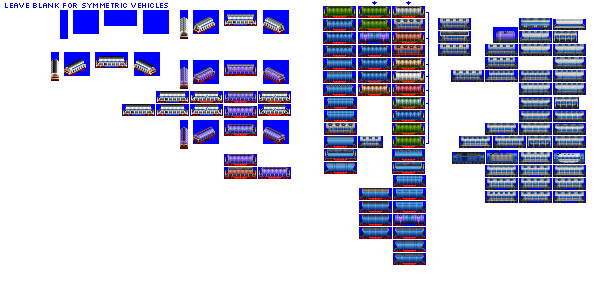
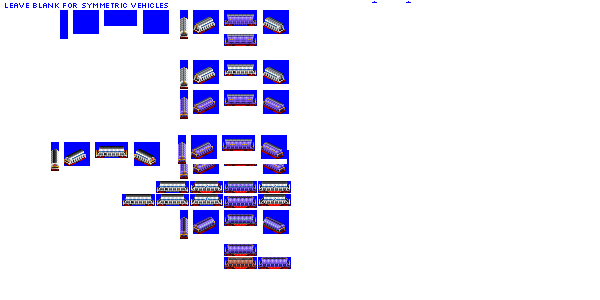
Change: WIP on 3rd type of swing roof hopper (unsatisfactory sprites)

diff --git a/src/vehicles/pony/swing_roof_hopper_cars_type_3_pony.py b/src/vehicles/pony/swing_roof_hopper_cars_type_3_pony.py
@@ -7,11 +7,11 @@ def main(**kwargs):
     # --------------- standard gauge ---------------------------------------------------------------
 
     model_def = ModelDef(
-        schema_name="CoveredHopperCarSwingRoofType2",
-        base_numeric_id=16900,
+        schema_name="CoveredHopperCarSwingRoofType3",
+        base_numeric_id=26230,
         gen=5,
         subtype="B",
-        sprites_complete=False,
+        sprites_complete=True,
     )
 
     model_def.add_unit_def(
@@ -21,11 +21,11 @@ def main(**kwargs):
     result.append(model_def)
 
     model_def = ModelDef(
-        schema_name="CoveredHopperCarSwingRoofType2",
-        base_numeric_id=16940,
+        schema_name="CoveredHopperCarSwingRoofType3",
+        base_numeric_id=26240,
         gen=5,
         subtype="C",
-        sprites_complete=False,
+        sprites_complete=True,
     )
 
     model_def.add_unit_def(

diff --git a/src/train/schemas.py b/src/train/schemas.py
@@ -4241,6 +4241,17 @@ class CoveredHopperCarSwingRoofType2(CoveredHopperCarSwingRoofBase):
 
     def __init__(self, **kwargs):
         super().__init__(**kwargs)
+
+
+class CoveredHopperCarSwingRoofType3(CoveredHopperCarSwingRoofBase):
+    """
+    Covered hopper with a swing roof hatch, same refits as standard covered hopper, just a visual variant.
+    """
+
+    model_id_root = "swing_roof_hopper_car_type_3"
+
+    def __init__(self, **kwargs):
+        super().__init__(**kwargs)
         # Graphics configuration
         # there's some specific magic pixel handling on these that means they get a unique recolour map
         weathered_states = {

diff --git a/src/rosters/pony.py b/src/rosters/pony.py
@@ -403,6 +403,7 @@ wagon_module_names_with_roster_ids = {
     "suburban_passenger_cars": "pony",
     "swing_roof_hopper_cars_type_1": "pony",
     "swing_roof_hopper_cars_type_2": "pony",
+    "swing_roof_hopper_cars_type_3": "pony",
     "tank_cars_randomised": "pony",
     "tank_cars_type_1": "pony",
     "tank_cars_type_2": "pony",

diff --git a/src/global_constants.py b/src/global_constants.py
@@ -160,6 +160,7 @@ wagon_module_name_stems = [
     "covered_hopper_cars_randomised",
     "swing_roof_hopper_cars_type_1",
     "swing_roof_hopper_cars_type_2",
+    "swing_roof_hopper_cars_type_3",
     "chemical_covered_hopper_cars",
     "chemical_swing_roof_hopper_cars",
     "chemical_covered_hopper_cars_randomised",
